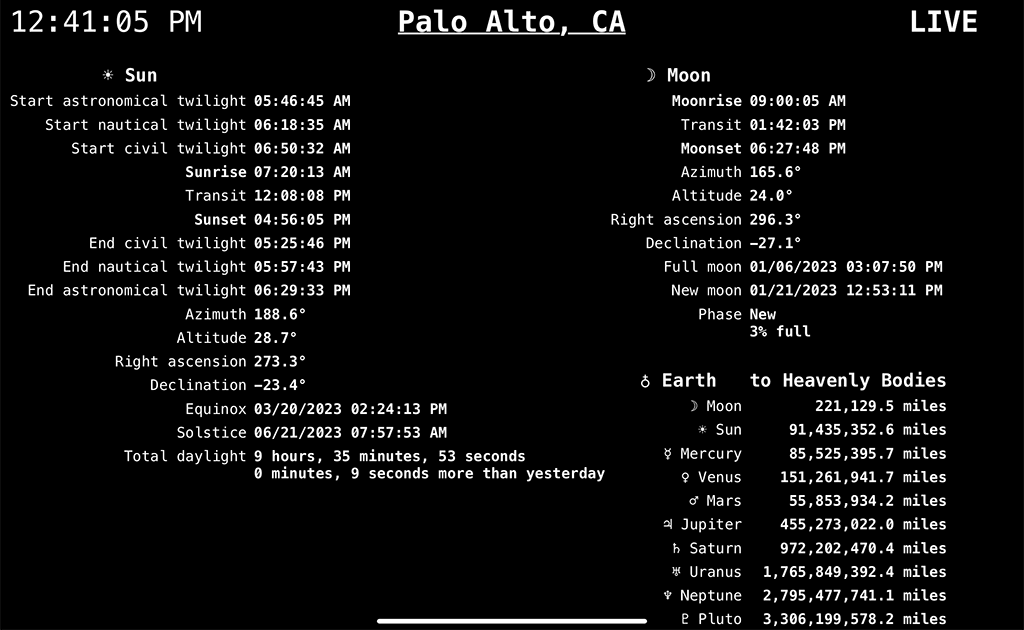
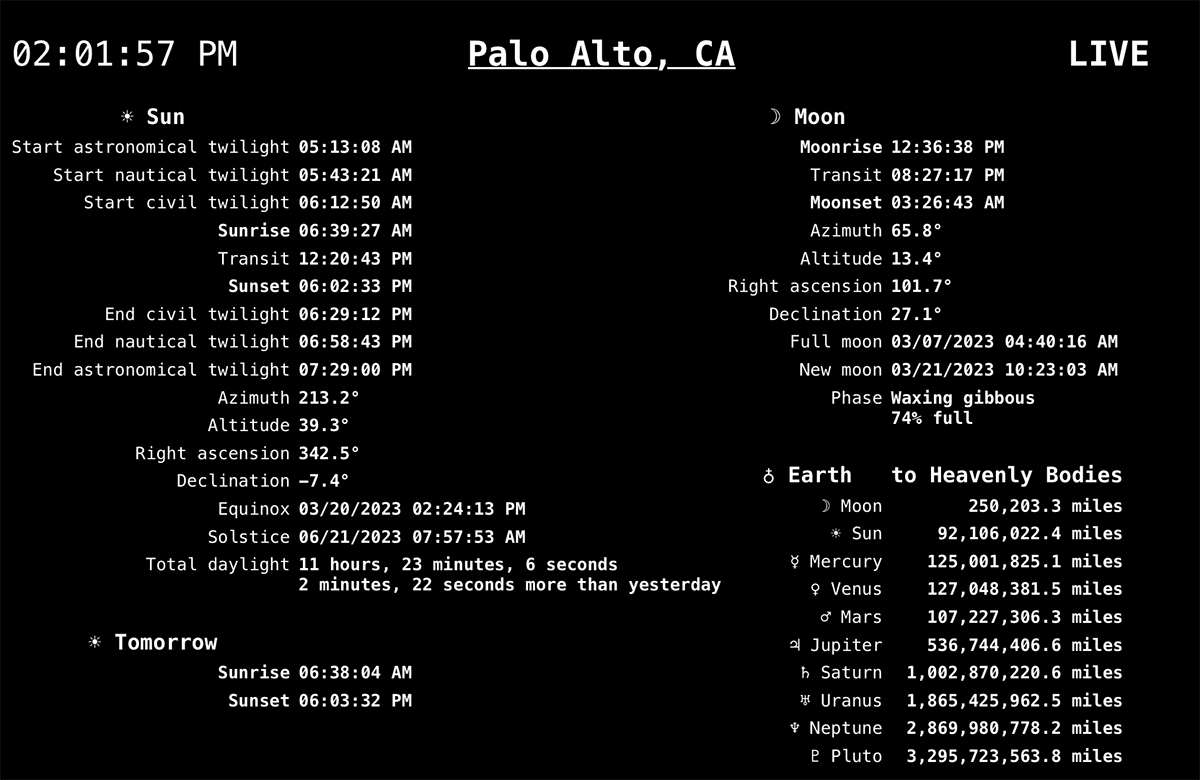
Release v1.0.  Add tomorrowSunrise and tomorrowSunset.

diff --git a/bin/user/celestial.py b/bin/user/celestial.py
@@ -1,7 +1,7 @@
 """
 celestial.py
 
-Copyright (C)2022 by John A Kline (john@johnkline.com)
+Copyright (C)2022-2023 by John A Kline (john@johnkline.com)
 Distributed under the terms of the GNU Public License (GPLv3)
 
 Celestial is a WeeWX service that generates Celestial observations
@@ -27,7 +27,7 @@ from weewx.engine import StdService
 # get a logger object
 log = logging.getLogger(__name__)
 
-CELESTIAL_VERSION = '0.7'
+CELESTIAL_VERSION = '1.0'
 
 if sys.version_info[0] < 3 or (sys.version_info[0] == 3 and sys.version_info[1] < 9):
     raise weewx.UnsupportedFeature(
@@ -231,6 +231,19 @@ class Celestial(StdService):
         except ephem.NeverUpError:
             yesterday_daylight = 0
         pkt['yesterdaySunshineDur'] = yesterday_daylight
+        tomorrow_start  = datetime.fromtimestamp(local_day_start.timestamp() + 86400, timezone.utc)
+        obs.date = tomorrow_start
+        try:
+            tomorrow_sunrise = obs.next_rising(sun).datetime().replace(tzinfo=timezone.utc).timestamp()
+            tomorrow_sunset = obs.next_setting(sun).datetime().replace(tzinfo=timezone.utc).timestamp()
+            tomorrow_daylight = tomorrow_sunset - tomorrow_sunrise
+        except ephem.AlwaysUpError:
+            tomorrow_daylight = 86400
+        except ephem.NeverUpError:
+            tomorrow_daylight = 0
+        pkt['tomorrowSunrise'] = tomorrow_sunrise
+        pkt['tomorrowSunset'] = tomorrow_sunset
+        # Perhaps offer tomrrow daylight at some point.
 
     def new_loop(self, event):
         pkt: Dict[str, Any] = event.packet

diff --git a/install.py b/install.py
@@ -1,4 +1,4 @@
-# Copyright 2022 by John A Kline <john@johnkline.com>
+# Copyright 2022-2023 by John A Kline <john@johnkline.com>
 #
 # This program is free software; you can redistribute it and/or
 # modify it under the terms of the GNU General Public License
@@ -31,7 +31,7 @@ def loader():
 class CelestialInstaller(ExtensionInstaller):
     def __init__(self):
         super(CelestialInstaller, self).__init__(
-            version = "0.7",
+            version = "1.0",
             name = 'celestial',
             description = 'Inserts celestial observations into loop packets.',
             author = "John A Kline",

diff --git a/README.md b/README.md
@@ -1,7 +1,7 @@
 # weewx-celestial
 *Open source plugin for WeeWX software.
 
-Copyright (C)2022 by John A Kline (john@johnkline.com)
+Copyright (C)2022-2023 by John A Kline (john@johnkline.com)
 
 **This extension requires Python 3.9 or later and WeeWX 4.**
 
@@ -68,7 +68,15 @@ The following observations are available in the LOOP packet:
 - `Sunrise`
 - `Sunset`
 - `SunTransit`
+- `tomorrowSunrise`
+- `tomorrowSunset`
 - `yesterdaySunshineDur`
+
+# Upgrade Instructions
+
+1. Note: if you re upgrading from a previous version to 1.x, and you are using the sample skin, you'll need to add the following
+   two fields to the `fields` line in `weewx.conf`:
+   `current.tomorrowSunrise.raw, current.tomorrowSunset.raw`
 
 # Installation Instructions
 
@@ -81,15 +89,15 @@ The following observations are available in the LOOP packet:
 
 1. Add the following fields to the `[LoopData][[Include]][[[fields]]]` line in `weewx.conf`.  (They are used by the sample report.)
 
-   `current.AstronomicalTwilightEnd.raw, current.AstronomicalTwilightStart.raw, current.CivilTwilightEnd.raw, current.CivilTwilightStart.raw, current.EarthJupiterDistance, current.EarthMarsDistance, current.EarthMercuryDistance, current.EarthMoonDistance, current.EarthNeptuneDistance, current.EarthPlutoDistance, current.EarthSaturnDistance, current.EarthSunDistance, current.EarthUranusDistance, current.EarthVenusDistance, current.MoonAltitude.raw, current.MoonAzimuth.raw, current.MoonDeclination.raw, current.MoonFullness, current.MoonPhase, current.MoonRightAscension.raw, current.MoonTransit.raw, current.Moonrise.raw, current.Moonset.raw, current.NauticalTwilightEnd.raw, current.NauticalTwilightStart.raw, current.NextEquinox, current.NextFullMoon, current.NextNewMoon, current.NextSolstice, current.SunAltitude.raw, current.SunAzimuth.raw, current.SunDeclination.raw, current.SunRightAscension.raw, current.SunTransit.raw, current.Sunrise.raw, current.Sunset.raw, current.daySunshineDur.raw, current.yesterdaySunshineDur.raw`
+   `current.AstronomicalTwilightEnd.raw, current.AstronomicalTwilightStart.raw, current.CivilTwilightEnd.raw, current.CivilTwilightStart.raw, current.EarthJupiterDistance, current.EarthMarsDistance, current.EarthMercuryDistance, current.EarthMoonDistance, current.EarthNeptuneDistance, current.EarthPlutoDistance, current.EarthSaturnDistance, current.EarthSunDistance, current.EarthUranusDistance, current.EarthVenusDistance, current.MoonAltitude.raw, current.MoonAzimuth.raw, current.MoonDeclination.raw, current.MoonFullness, current.MoonPhase, current.MoonRightAscension.raw, current.MoonTransit.raw, current.Moonrise.raw, current.Moonset.raw, current.NauticalTwilightEnd.raw, current.NauticalTwilightStart.raw, current.NextEquinox, current.NextFullMoon, current.NextNewMoon, current.NextSolstice, current.SunAltitude.raw, current.SunAzimuth.raw, current.SunDeclination.raw, current.SunRightAscension.raw, current.SunTransit.raw, current.Sunrise.raw, current.Sunset.raw, current.daySunshineDur.raw, current.yesterdaySunshineDur.raw, current.tomorrowSunrise.raw, current.tomorrowSunset.raw`
 
-1. Download the lastest release, weewx-celestial-0.7.zip, from
+1. Download the lastest release, weewx-celestial-1.0.zip, from
 
    [weewx-celestial GitHub Repository](https://github.com/chaunceygardiner/weewx-celestial).
 
 1. Run the following command.
 
-   `sudo /home/weewx/bin/wee_extension --install weewx-celestial-0.7.zip`
+   `sudo /home/weewx/bin/wee_extension --install weewx-celestial-1.0.zip`
 
    Note: this command assumes weewx is installed in /home/weewx.  If it's installed
    elsewhere, adjust the path of wee_extension accordingly.
